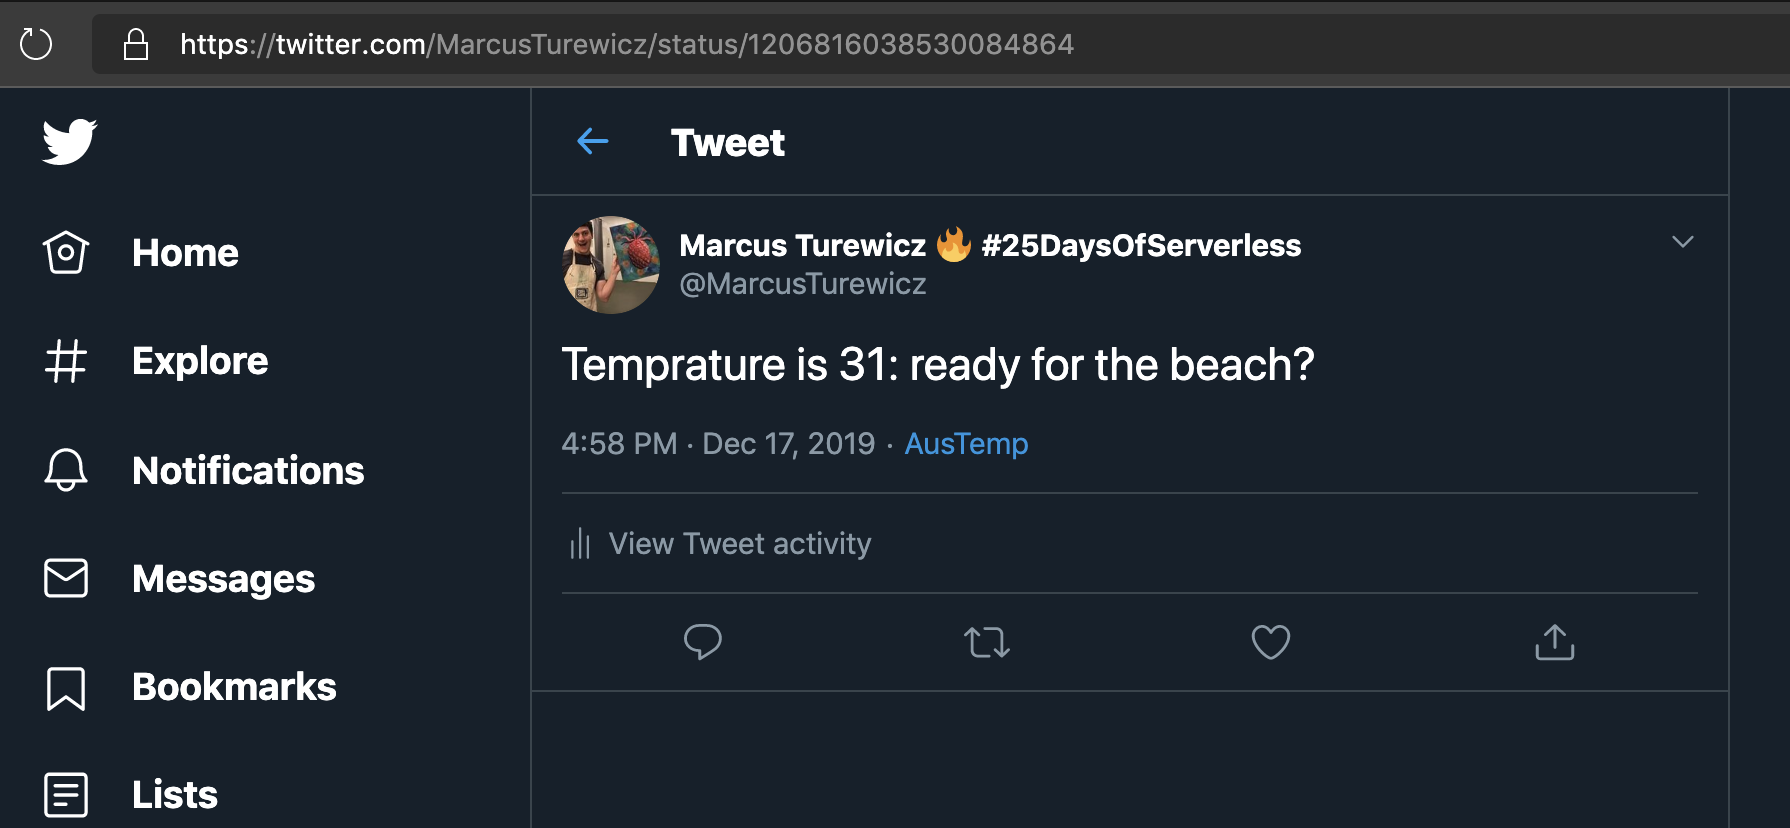
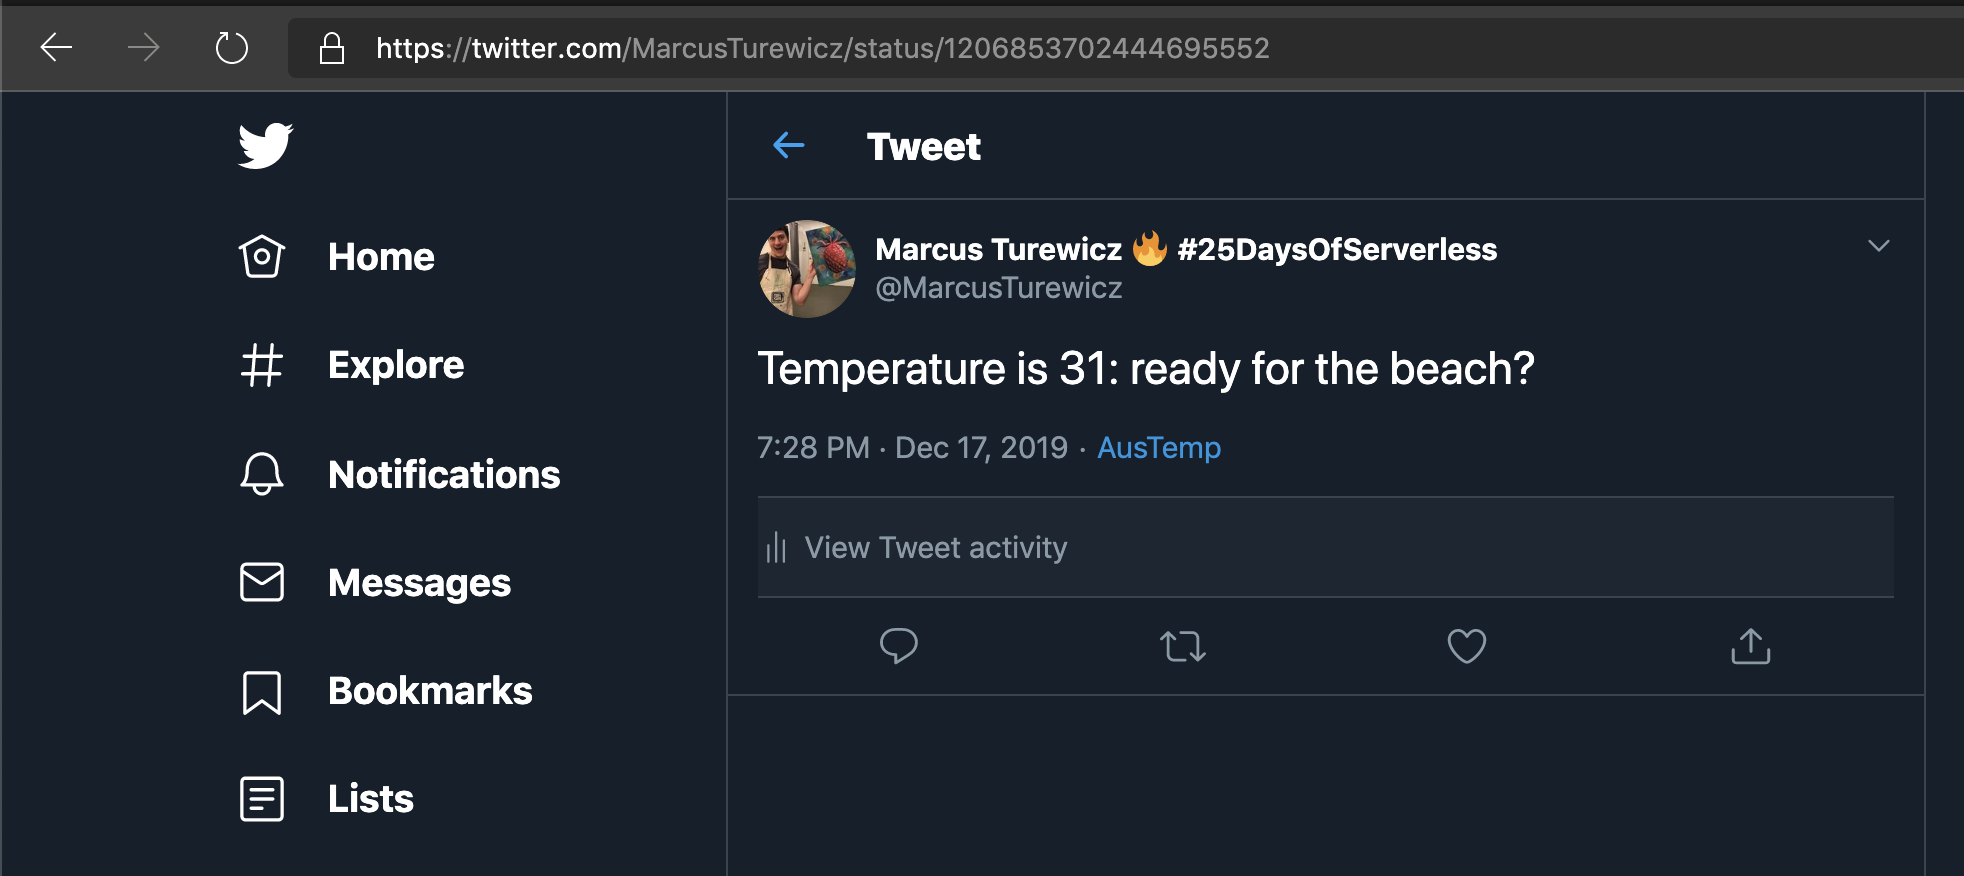
Update typo and img

diff --git a/Day-17/src/tweettemp/index.js b/Day-17/src/tweettemp/index.js
@@ -11,7 +11,7 @@ module.exports = async function (context, eventHubMessages) {
                 access_token_key: process.env.TWITTER_ACCESS_TOKEN_KEY,
                 access_token_secret: process.env.TWITTER_ACCESS_TOKEN_SECRET
             });
-            client.post('statuses/update', { status: 'Temprature is ' + Math.round(message.temperature) + ': ready for the beach?' })
+            client.post('statuses/update', { status: 'Temperature is ' + Math.round(message.temperature) + ': ready for the beach?' })
                 .then(function (tweet) {
                     console.log(tweet);
                 })

diff --git a/Day-17/README.md b/Day-17/README.md
@@ -8,7 +8,7 @@ Simulator working with IOT Hub:
 
 ![](img/sim.png)
 
-Tweet sent from Azure Function: https://twitter.com/MarcusTurewicz/status/1206816038530084864
+Tweet sent from Azure Function: https://twitter.com/MarcusTurewicz/status/1206853702444695552
 
 ![](img/tweet.png)
 
